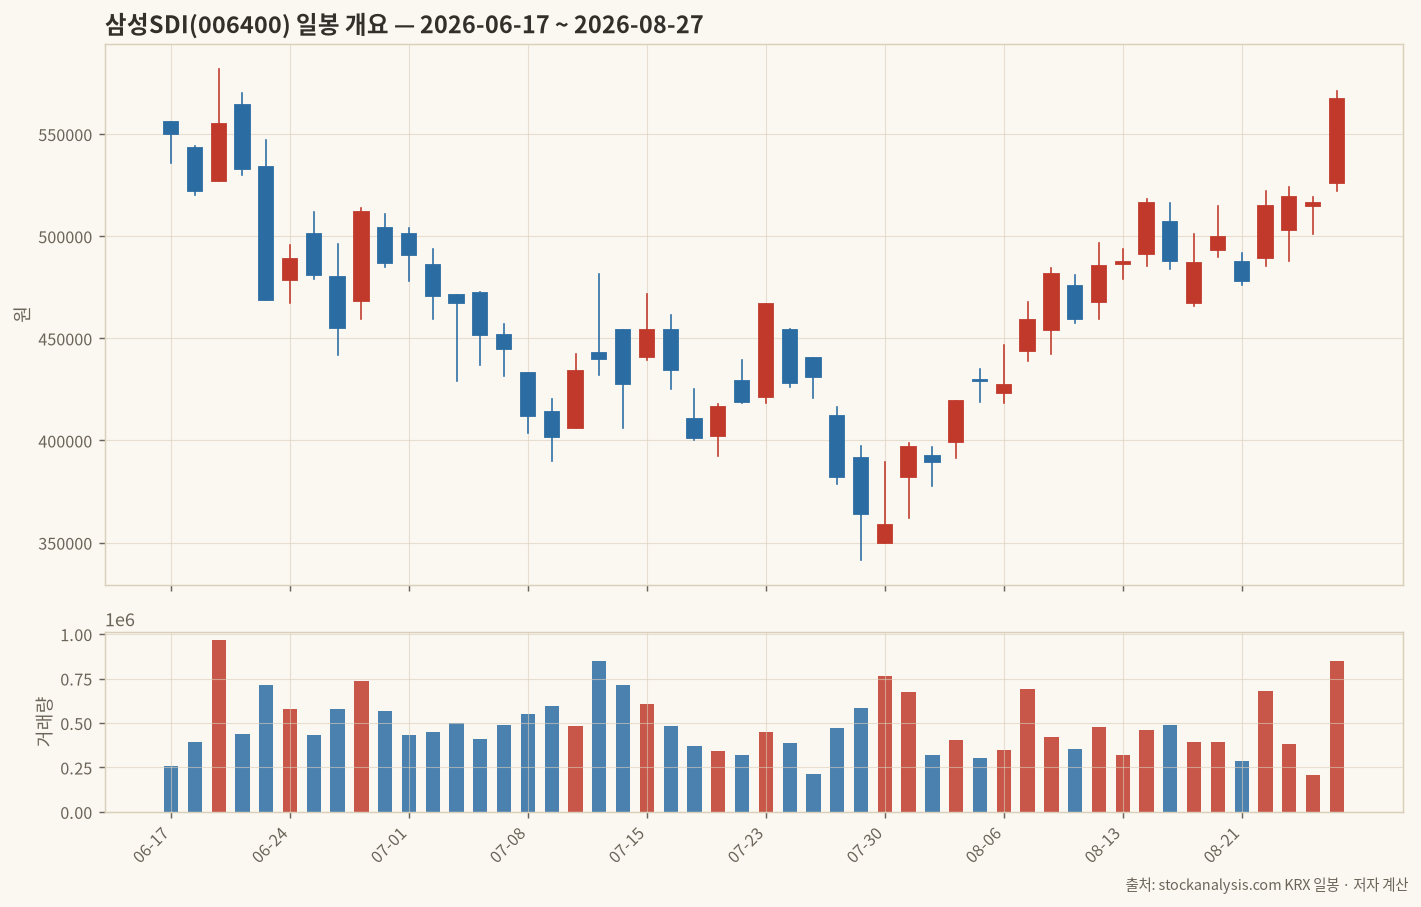
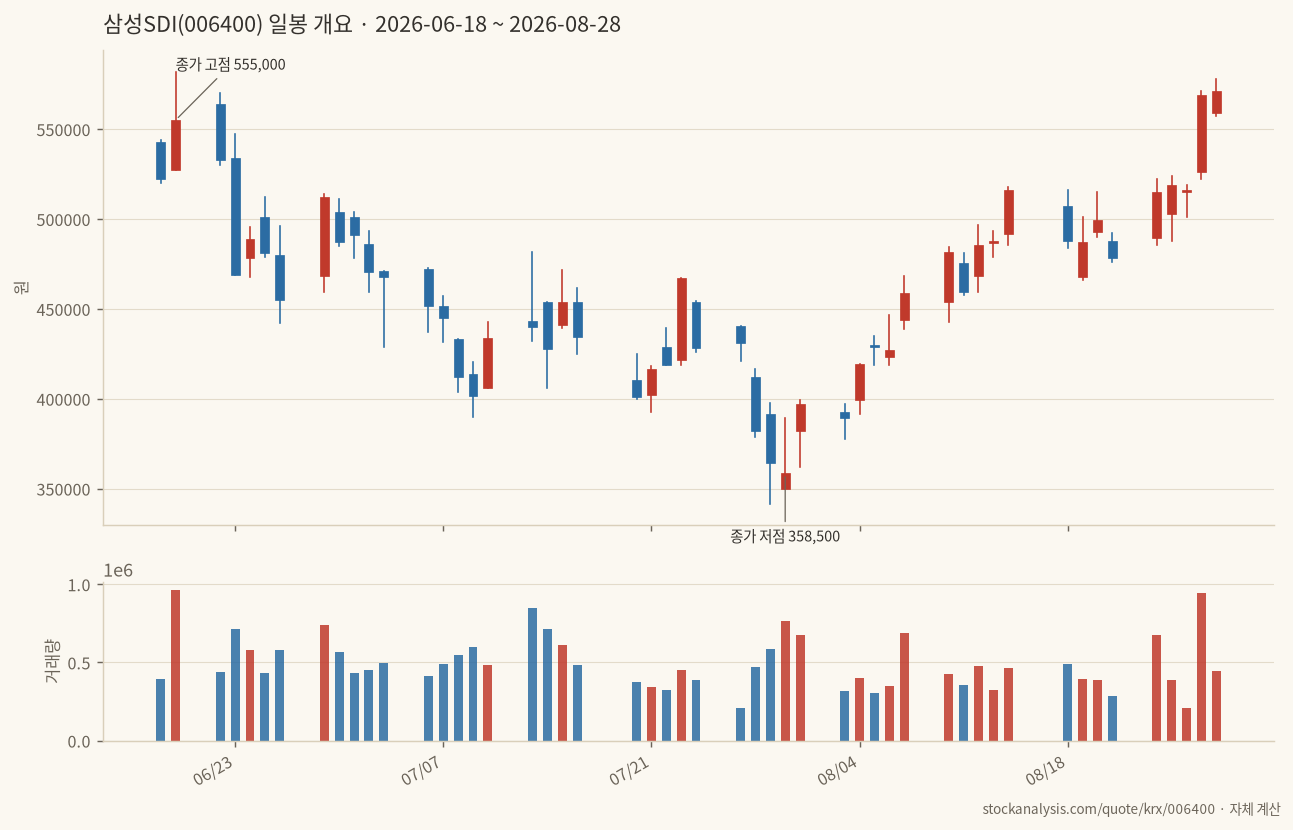
study(N16): publish 삼성SDI Chaikin Money Flow

diff --git a/content/study/sdi-chaikin-money-flow.md b/content/study/sdi-chaikin-money-flow.md
@@ -1,107 +1,105 @@
 ---
-title: "삼성SDI, 35% 급락에서 신고가 마감까지: 차이킨 자금흐름은 단 한 번 방향을 바꿨다 (Chaikin Money Flow: Samsung SDI's Round Trip From a 35% Drop to a Closing High, Where the Indicator Signaled Only Once)"
-description: "삼성SDI(006400)가 35% 급락한 뒤 마지막 거래일 종가 기준 신고가로 마감하기까지, 20일 차이킨 자금흐름(CMF)이 두 달 동안 단 한 번만 부호를 바꾼 과정을 실측 데이터로 짚는다. This study uses verified KRX daily data to track Samsung SDI's 20-day Chaikin Money Flow, which crossed the zero line only once during a 35% drop and rebound to a closing high."
-date: 2026-08-27T19:10:00+09:00
+title: "삼성SDI, 35% 급락 저점에서 9거래일 지나서야 신호를 보낸 지표: 차이킨 자금흐름 (Chaikin Money Flow: Samsung SDI, a Signal That Arrived Nine Sessions After the Bottom)"
+description: "삼성SDI(006400)가 두 달 새 35% 빠졌다 되오르는 동안, 이차전지 대장주의 자금 흐름을 차이킨 자금흐름(CMF)으로 직접 계산해 저점 포착 시점을 확인한다. This study computes Chaikin Money Flow on Samsung SDI's 35% drawdown and rebound to see how late the volume-flow signal actually confirmed the turn."
+date: 2026-08-28T09:05:00+09:00
 draft: false
-markets: ["stock"]
 tags: ["지표스터디", "기술적지표", "코스피", "자동매매", "이차전지", "삼성SDI"]
-summary: "삼성SDI의 20일 CMF가 두 달간 -0.2221에서 +0.2703까지 움직이며 8월 12일 단 한 번 부호를 바꿨다."
+summary: "CMF(20)은 삼성SDI 저점을 9거래일 늦게, 주가가 이미 35.43% 오른 뒤에야 매집 우위로 확인했다."
+markets: ["stock"]
 ---
 
-거래량이 지지하지 않는 가격 움직임은 오래가지 못한다는 것이 자금흐름 계열 지표의 전제다. 차이킨 자금흐름(CMF)은 마크 차이킨이 만든 지표로, 하루 종가가 그날의 고가·저가 범위 안 어디서 끝났는지를 거래량과 곱해 누적한다. 종가가 고가 쪽에 가깝게 끝난 날은 매수 우위로, 저가 쪽에 가깝게 끝난 날은 매도 우위로 본다. 이 값을 일정 기간 합산해서 0을 기준으로 위아래를 가르면, 그 구간 동안 돈이 어느 쪽으로 쏠렸는지가 하나의 선으로 나온다.
+## 왜 이 지표, 왜 이 종목
 
-삼성SDI(006400)는 이 지표를 시험하기에 좋은 재료를 갖고 있었다. 6월 중순 550,000원대에서 출발해 7월 말 358,500원까지 35% 넘게 미끄러졌다가, 8월 마지막 거래일 하루 만에 9.88% 뛰어오르며 이 구간 최고 종가로 마감했다. 하락과 반등이 뚜렷하게 갈리는 구간이라, 자금흐름이 방향을 얼마나 일찍 알아챘는지 확인하기 좋다.
+Chaikin Money Flow(CMF)는 마크 차이킨이 만든 거래량 기반 지표다. 하루 봉의 종가가 그날 고가와 저가 사이 어디서 끝났는지를 거래량에 곱해 누적하면, 자금이 매집 쪽으로 쏠리는지 분산 쪽으로 쏠리는지가 하나의 선으로 나온다. 값이 0보다 크면 매집 우위, 작으면 분산 우위로 읽는다. 종가만 보는 지표와 달리 하루 범위 전체와 거래량을 같이 쓰기 때문에, 같은 상승이라도 힘이 실렸는지 아닌지를 구분한다고 알려져 있다.
+
+삼성SDI는 이번 여름 두 달 동안 종가 기준 고점에서 저점까지 35.41% 빠졌다가, 저점에서 마지막 거래일까지 59.27% 되올랐다. 급락과 급반등이 한 구간에 다 들어 있어서, 거래량 기반 지표가 방향 전환을 얼마나 빨리 확인해주는지 시험하기에는 나쁘지 않은 재료다. 이 글이 확인하려는 건 하나다. 가격이 실제로 바닥을 찍은 날과 CMF가 0선을 넘어 매집 쪽으로 돌아선 날 사이에 며칠의 간격이 있었는가.
 
 <div class="term">
 <div class="term-bar"><i></i><i></i><i></i><em>이 글의 데이터 범위</em></div>
-<pre><code><span class="w">종목</span>  삼성SDI (006400)
-<span class="w">코드</span>  006400
-<span class="w">구간</span>  2026-06-17 ~ 2026-08-27 (50거래일)
-<span class="w">출처</span>  stockanalysis.com, KRX 일봉
-<span class="w">최고 종가</span>  567,000원 (2026-08-27, 구간 마지막 날)
-<span class="w">최저 종가</span>  358,500원 (2026-07-30)
-<span class="w">낙폭</span>  -35.41% (2026-06-19 종가 555,000원 → 2026-07-30 종가 358,500원)</code></pre>
-</div>
-
-> 이 글은 투자 권유가 아니다. 실린 모든 수치는 과거 시세를 계산한 결과이며 앞으로의 수익을 보장하지 않는다.
-
-## 계산은 이렇게 했다
-
-CMF는 세 단계로 계산한다. 하루의 자금흐름 승수(MFM)를 구하고, 여기에 거래량을 곱해 자금흐름량(MFV)을 만든 뒤, 정해진 기간만큼 MFV와 거래량을 각각 합산해서 나눈다.
-
-<div class="term">
-<div class="term-bar"><i></i><i></i><i></i><em>계산식</em></div>
-<pre><code><span class="w">MFM</span>  ((종가-저가) - (고가-종가)) ÷ (고가-저가)
+<pre><code><span class="w">종목</span>       삼성SDI (006400)
+<span class="w">구간</span>       2026-06-18 ~ 2026-08-28 (50거래일)
+<span class="w">출처</span>       stockanalysis.com/quote/krx/006400
+<span class="w">최고가</span>     582,000원 (06-19 고가)
+<span class="w">최저가</span>     341,500원 (07-29 저가)
+<span class="w">종가 고점</span>   555,000원 (06-19)
+<span class="w">종가 저점</span>   358,500원 (07-30)
 <span class="c">--------------------------------------------------</span>
-<span class="w">MFV</span>  MFM × 거래량
-<span class="c">--------------------------------------------------</span>
-<span class="w">CMF</span>  N일 MFV 합계 ÷ N일 거래량 합계</code></pre>
+<span class="w">낙폭</span>       <span class="r">-35.41%</span> (종가 고점 → 종가 저점)
+<span class="w">반등</span>       <span class="g">+59.27%</span> (종가 저점 → 마지막 종가)</code></pre>
 </div>
 
-전 구간을 numpy로 직접 짰다. 라이브러리가 제공하는 지표 함수는 쓰지 않았고, 고가와 저가가 같아 분모가 0이 되는 날은 MFM을 0으로 처리하도록 예외 처리만 했다(이번 구간에는 그런 날이 없었다). 기간은 20일을 썼다. 대다수 차트 플랫폼이 기본값으로 쓰는 길이고, 한 달 거래일 수에 가까워 앞서 발행한 다른 이동평균 계열 지표 글들과 파라미터 기준을 맞출 수 있어서다.
+이차전지 업종은 원래 하루 등락폭이 큰 편이다. 이번 50거래일 동안 하루 등락률이 ±5%를 넘긴 날이 열 번을 넘었고, 두 자릿수 등락도 여러 번 나왔다. 종가만 보고 판단하면 하루하루가 다 신호처럼 보일 수 있는 구간이라, 거래량까지 같이 보는 CMF가 잡음을 걸러주는지 아니면 오히려 따라가지 못하는지를 확인해볼 만하다.
 
-2026-08-27 하루를 예로 들면 이렇다. 시가 526,000원, 고가 571,000원, 저가 522,000원, 종가 567,000원이었다. MFM은 ((567,000-522,000)-(571,000-567,000)) ÷ (571,000-522,000) = (45,000-4,000) ÷ 49,000 = +0.8367이다. 종가가 이날 범위의 고가 쪽 끝에 바짝 붙었다는 뜻이다. 이 값에 거래량 847,539주를 곱하면 이날의 MFV가 나온다.
+구간을 50거래일로 잡은 이유를 밝혀둔다. 규격상 목표는 60거래일 이상인데, 이 페이지는 한 번에 최근 50거래일까지만 정적으로 열리고 그 앞 페이지는 브라우저 클릭이 있어야 넘어간다. 같은 요청을 파라미터만 바꿔 다섯 번 다시 보냈지만 매번 같은 50행이 돌아왔다. 그래서 이번 글은 6월 18일부터로 구간을 좁혔다는 점을 미리 적어둔다.
 
-<div class="term">
-<div class="term-bar"><i></i><i></i><i></i><em>2026-08-27 CMF(20) 실측값</em></div>
-<pre><code><span class="w">최근 20일 MFV 합계</span>  2,490,839
-<span class="w">최근 20일 거래량 합계</span>  9,215,837주
-<span class="w">CMF(20)</span>  +0.2703</code></pre>
-</div>
-
-20일 구간이 있어야 값이 나오는 지표라 앞의 19개 봉은 표본이 부족해 CMF(20)가 비어 있다. 실제 유효한 값은 2026-07-14부터 2026-08-27까지 31개뿐이다. 50거래일을 모았는데 지표가 살아 있는 구간은 그중 62%다.
-
-## 실제 움직임
+> 이 글은 투자 권유가 아니다. 수집한 시세로 직접 계산한 결과를 정리한 것이며, 특정 종목의 매수·매도를 권하지 않는다.
 
 ![삼성SDI 일봉 개요](/img/study/sdi-01-overview.png)
 
-가격은 6월 17일 종가 550,000원에서 출발해 6월 19일 555,000원(장중 고가 582,000원)까지 오른 뒤 7월 30일 종가 358,500원(장중 저가는 하루 전인 7월 29일 341,500원)까지 내리 밀렸다. 이후 8월 들어 완만하게 반등하다가, 8월 27일 하루에만 9.88% 오르며 567,000원으로 마감해 구간 전체를 통틀어 가장 높은 종가를 기록했다. 구간 시작 종가와 비교하면 최종 상승률은 3.09%에 그치지만, 그 사이에 35%가 넘는 낙폭을 한 번 거쳤다.
+## 계산, 실측, 검증
 
-![삼성SDI 종가와 20일 차이킨 자금흐름](/img/study/sdi-02-cmf.png)
+CMF는 하루 단위로 이렇게 계산한다.
 
-CMF(20) 라인을 겹쳐 보면 이야기가 단순해진다. 유효값이 시작되는 7월 14일부터 8월 11일까지 19거래일 내내 0 아래에 머물렀다. 최저치는 7월 20일 기록한 -0.2221이다. 그러다 8월 12일 +0.0110으로 처음이자 이 구간 유일하게 0선을 상향 돌파했다. 이후 8월 27일 +0.2703까지 한 번도 다시 음수로 내려가지 않았다. 두 달 가까운 구간에서 부호가 바뀐 시점은 단 한 번뿐이었다.
+<div class="term">
+<div class="term-bar"><i></i><i></i><i></i><em>계산식 · Chaikin Money Flow</em></div>
+<pre><code><span class="w">MFM</span>     [(종가-저가) - (고가-종가)] / (고가-저가)
+<span class="w">MFV</span>     MFM × 거래량
+<span class="c">--------------------------------------------------</span>
+<span class="w">CMF(n)</span>   Σ MFV(최근 n일) / Σ 거래량(최근 n일)
+<span class="w">n</span>        20 (거래일, 이 글의 기본값)</code></pre>
+</div>
 
-## 신호, 맞은 것과 틀린 것
+기간은 20일로 잡았다. 트레이딩뷰를 비롯한 대부분의 차트 플랫폼이 CMF 기본값으로 20일 또는 21일을 쓰는 데다, 20거래일이면 한 달 남짓이라 두 달짜리 급락·반등 구간 안에서 값이 두 차례 이상 갱신될 만큼은 된다. 다만 20일 이동합은 예열 구간이 길다. 50거래일 중 앞의 19일은 합산 창이 덜 찼다는 이유로 계산에서 뺐다. 그 결과 유효한 CMF(20) 값은 31개뿐이고, 첫 유효값은 7월 15일이다. 뒤에서 다룰 10일짜리 CMF는 41개 값을 낸다.
 
-CMF(20)의 0선 교차만 놓고 보면 이번 구간은 신호가 하나뿐이다. 8월 12일 종가 485,500원에서 신호가 떴고, 5거래일 뒤인 8월 20일 종가는 499,500원으로 2.88% 올랐다. 방향은 맞았지만 폭은 크지 않았다. 이 신호를 그대로 들고 갔다면 구간 마지막 날인 8월 27일 종가 567,000원까지 16.79% 올랐다. 짧게 끊어 보면 소폭 적중이고, 끝까지 들고 갔다면 큰 폭 적중이다.
+<div class="term">
+<div class="term-bar"><i></i><i></i><i></i><em>CMF(20) 핵심 지점</em></div>
+<pre><code><span class="w">07-15</span>  최초 유효값      <span class="r">-0.1893</span>
+<span class="w">07-30</span>  종가 저점 당일    <span class="r">-0.1998</span>
+<span class="w">08-11</span>  돌파 전날        <span class="r">-0.0184</span>
+<span class="w">08-12</span>  제로선 상향 돌파  <span class="g">+0.0110</span>
+<span class="w">08-21</span>  재하락 근접      <span class="g">+0.0144</span>
+<span class="w">08-28</span>  마지막 값        <span class="g">+0.3595</span></code></pre>
+</div>
 
-문제는 신호가 하나뿐이라 "맞았다"는 말 자체가 통계적으로 별 의미가 없다는 점이다. CMF(20)은 20일 치를 누적하는 만큼 방향을 늦게, 하지만 드물게 알려준다. 같은 구간에서 더 빠르게 반응하는 지표라면 신호가 몇 번이나 났을지, 그리고 그 신호들의 승률은 어땠을지를 다음 절에서 기간을 10일로 좁혀 확인했다.
+![Chaikin Money Flow (20)](/img/study/sdi-02-cmf-line.png)
 
-![CMF(10) 영선 교차 신호와 가격](/img/study/sdi-03-signals.png)
+이번 구간에서 CMF(20)이 0선을 넘은 시점은 딱 한 번, 8월 12일이다. 8월 11일 -0.0184에서 8월 12일 +0.0110으로 올라섰다. 문제는 타이밍이다. 종가 기준 저점은 7월 30일 358,500원이었는데, CMF가 매집 우위를 인정한 8월 12일 종가는 이미 485,500원이었다. 거래일 수로는 9거래일, 가격으로는 저점 대비 35.43% 오른 다음에야 지표가 방향을 인정했다는 뜻이다. 저점에서 시작하는 반등의 절반 이상을 지표 없이 그냥 지나왔다.
 
-기간을 10일로 좁힌 CMF(10)은 같은 구간에서 0선을 일곱 번 넘나들었다. 그중 상승 교차(음수에서 양수로)가 네 번, 하락 교차(양수에서 음수로)가 세 번이다. 신호가 뜬 날의 종가와 5거래일 뒤 종가를 전수 대조했다.
+![저점과 CMF 돌파 사이의 지연](/img/study/sdi-03-lag.png)
 
-- 7월 7일 상승 교차(값 +0.0091), 종가 445,000원 → 5거래일 뒤(7월 14일) 427,500원, **-3.93%. 실패**(상승 신호인데 하락)
-- 7월 8일 하락 교차(-0.0966), 종가 412,000원 → 5거래일 뒤(7월 15일) 454,000원, **+10.19%. 실패**(하락 신호인데 큰 폭 상승)
-- 7월 10일 상승 교차(+0.0562), 종가 434,000원 → 5거래일 뒤(7월 20일) 401,000원, **-7.60%. 실패**
-- 7월 13일 하락 교차(-0.1814), 종가 440,000원 → 5거래일 뒤(7월 21일) 416,500원, **-5.34%. 적중**
-- 8월 5일 상승 교차(+0.0753), 종가 429,000원 → 5거래일 뒤(8월 12일) 485,500원, **+13.17%. 적중**
-- 8월 6일 하락 교차(-0.0544), 종가 427,000원 → 5거래일 뒤(8월 13일) 487,000원, **+14.05%. 실패**(하락 신호인데 이 구간 가장 큰 폭 상승)
-- 8월 7일 상승 교차(+0.0734), 종가 459,000원 → 5거래일 뒤(8월 14일) 516,000원, **+12.42%. 적중**
+틀린 쪽도 하나 짚어야 한다. 8월 21일에는 CMF(20)이 +0.0144까지 내려와 0선에 바짝 붙었다. 같은 날 종가는 478,000원으로 전날보다 4.30% 빠졌다. 이 흐름만 보고 매집이 끝났다고 판단해 자리를 정리했다면, 그다음 5거래일 동안 이어진 19.46%(478,000원 → 571,000원) 상승을 통째로 놓쳤을 것이다. 실제 CMF는 0선 아래로 다시 내려가지 않고 버텼으니 공식적인 오신호는 아니지만, 곡선 모양만 보고 성급하게 해석했다면 틀린 판단으로 이어졌을 지점이다.
 
-일곱 번 중 세 번 적중, 네 번 실패다. 특히 7월 8일과 8월 6일의 하락 교차는 실제로는 이 구간에서 손꼽히게 큰 상승을 코앞에 두고 나온 신호였다. 교차 시점의 CMF 절댓값이 작을수록(0에 가까울수록) 노이즈성 신호일 가능성이 크다는 것도 눈에 띈다. 7월 7일(+0.0091)과 8월 6일(-0.0544)처럼 0선에 바짝 붙어 교차한 경우가 특히 자주 빗나갔다.
+저점 당일인 7월 30일 자체를 하루 단위로 뜯어봐도 지연의 이유가 보인다. 그날 시가 350,000원, 고가 389,500원, 저가 350,000원, 종가 358,500원으로 마감했다. 종가가 하루 범위(350,000~389,500원)의 아래쪽 22% 지점에서 끝났다는 뜻이라, 그날 하루치 MFM은 -0.5696, 거래량 766,793주를 곱한 MFV는 -436,781이다. 가격은 그날이 바닥이었지만 그날의 자금흐름 계산 자체는 여전히 강한 분산 쪽이었다. 20일 누적값이 이 하루만으로 방향을 바꿀 수 없는 이유다. 반대로 8월 12일은 시가 468,000원, 고가 496,500원, 저가 459,500원, 종가 485,500원으로 범위 상단 70% 지점에서 끝나 MFM +0.4054, MFV +194,251을 냈고, 이 값이 20일 누적을 밀어 올려 0선을 넘겼다. 8월 21일은 반대 사례다. 시가 487,500원, 고가 492,000원, 저가 476,000원, 종가 478,000원으로 범위 최하단에서 끝나 MFM -0.7500, MFV -214,858을 기록했다. 이 하루가 20일 누적을 거의 0선까지 끌어내렸다가, 이 날짜가 합산 창에서 빠져나가면서 다시 올라간 것이 8월 21일 근접의 실체다.
 
-## 파라미터를 바꾸면
+<div class="term">
+<div class="term-bar"><i></i><i></i><i></i><em>일별 MFM · MFV 예시</em></div>
+<pre><code><span class="w">07-30</span>  저점 당일   MFM <span class="r">-0.5696</span>  MFV <span class="r">-436,781</span>
+<span class="w">08-12</span>  돌파 당일   MFM <span class="g">+0.4054</span>  MFV <span class="g">+194,251</span>
+<span class="w">08-21</span>  근접 당일   MFM <span class="r">-0.7500</span>  MFV <span class="r">-214,858</span>
+<span class="c">--------------------------------------------------</span>
+<span class="w">08-27</span>  급등일     MFM <span class="g">+0.9184</span>  MFV <span class="g">+863,757</span></code></pre>
+</div>
 
-![CMF(10)과 CMF(20) 비교](/img/study/sdi-04-sensitivity.png)
+기간을 10일로 낮추면 그림이 달라진다. 7월 7일 CMF(10)이 +0.0091로 잠깐 0선을 넘었지만 다음날 -0.0966으로 되돌아갔다. 그사이 종가는 7월 6일 451,500원에서 7월 7일 445,000원, 7월 8일 412,000원, 7월 9일 401,500원으로 계속 밀렸다. 7월 10일에도 같은 패턴이 반복됐다. +0.0562까지 올라섰지만 7월 13일 -0.1814로 꺼졌고, 가격도 7월 20일 401,000원까지 다시 밀렸다. 두 번 다 하루짜리 반등에 낚인 휩쏘였다. 8월에는 8월 5일 +0.0753으로 올라선 뒤 8월 6일 -0.0544로 한 번 더 흔들리고 나서야 8월 7일부터 방향이 굳었다. 20일짜리 CMF는 이 잡음을 다 걸러내는 대신, 방향 확인이 10일짜리보다 3거래일 더 늦었다(8/7 대 8/12).
 
-기간을 20일에서 10일로 줄이면 반응 속도와 진폭이 모두 달라진다. 8월 13일 기준으로 CMF(20)은 +0.0217이었지만 CMF(10)은 +0.3654로, 같은 날 같은 종가를 두고도 "막 양전환한 참"과 "이미 강한 매수 우위"라는 서로 다른 해석이 나온다. 7월 30일 저점에서는 CMF(20) -0.1998, CMF(10) -0.3159로 둘 다 음수였지만 폭의 차이는 뚜렷했다. 짧은 기간일수록 극단값에 더 민감하게 반응한다는 뜻이다.
+![파라미터 민감도](/img/study/sdi-04-sensitivity.png)
 
-교차 횟수도 크게 갈린다. CMF(20)은 50거래일 동안 딱 한 번 부호를 바꿨는데 CMF(10)은 일곱 번 바꿨다. 신호가 잦아지면 그만큼 빗나가는 신호도 늘어난다는 게 이번 대조에서 드러난 트레이드오프다. 20일 쪽은 신호를 거의 안 내는 대신 났다 하면 방향이 맞았고(1승 0패), 10일 쪽은 신호를 자주 내는 대신 절반 넘게 틀렸다(3승 4패). 어느 쪽이 낫다고 단정할 문제는 아니고, 포지션을 얼마나 자주 조정할 여력이 있는지에 따라 고를 파라미터가 달라진다.
+정리하면 기간을 짧게 잡을수록 반응은 빠르지만 판단을 두 번 뒤집게 만드는 휩쏘가 낀다. 길게 잡으면 휩쏘는 없는 대신 실제 저점을 한참 지난 뒤에야 알려준다. 어느 쪽을 골라도 공짜는 없다.
 
-## 봇 게이트에 넣을 것인가
-
-CMF 단독으로 매수·매도를 결정하는 방식은 이번 표본만 놓고 보면 근거가 약하다. 20일 기준은 표본이 하나뿐이라 통계로 부를 수 없고, 10일 기준은 승률이 43%에 그쳤다. 다만 방향이 아니라 "돈이 들어오고 있는 국면인가"를 걸러내는 필터로는 쓸모가 있어 보인다. 이번 구간에서 CMF(20)가 양수로 돌아선 8월 12일 이후 가격은 실제로 한 번도 7월 저점을 다시 시험하지 않았다. 다른 진입 신호가 떴을 때 CMF(20) 부호를 확인해서 역행하는 신호를 걸러내는 정도로, 보조 필터로 봇 게이트에 넣는 편이 이번 데이터로는 더 합리적이다.
+이 지표를 매매 봇의 단독 진입 게이트로 넣을지 묻는다면, 이번 데이터로는 넣지 않는 쪽이 낫다고 본다. CMF(20) 하나만으로 진입을 걸었다면 이번 반등의 첫 35%p를 그냥 흘려보낸다. 대신 가격이 먼저 저점을 찍고 방향을 튼 걸 다른 신호로 잡은 다음, CMF가 0선 위에서 계속 버티는지를 청산 타이밍의 보조 참고선 정도로 쓰는 편이 이번 구간의 계산 결과와는 더 맞는다.
 
 ## 남는 것
 
-이번 구간에서 눈에 남는 숫자는 두 개다. 하나는 CMF(20)이 두 달 동안 부호를 딱 한 번 바꿨다는 것, 다른 하나는 그 한 번이 3승 4패인 CMF(10)보다 오히려 결과가 좋았다는 것이다. 표본 하나로 지표의 우열을 가릴 수는 없다. 다음 라운드에 같은 종목이 돌아오면 이번 8월 12일 신호가 끝까지 유효했는지, 아니면 또 다른 되돌림을 맞았는지부터 확인하는 게 순서일 것 같다.
+이번 구간에서 남길 건 두 가지다. 거래량 기반 지표라고 해서 가격보다 항상 먼저 움직이지는 않는다는 것, 그리고 기간을 조정하는 순간 지표의 성격 자체가 달라진다는 것이다. 20일짜리는 늦되 침착했고, 10일짜리는 빨랐지만 두 번 흔들렸다.
+
+윌리엄 오닐은 거래량이 실린 상승만 믿으라고 했다. 이번 구간에 대입하면 8월 12일의 돌파 그 자체보다, 그 뒤로 거래량을 동반한 상승이 며칠 이어졌는지가 더 중요했다. 돌파일 하루의 값만 보고 판단했다면 정작 봐야 할 건 놓쳤을 수 있다.
+
+이 글에 실린 수치는 모두 stockanalysis.com에서 받은 일봉과 그걸로 직접 계산한 값이며, 특정 매매를 권하는 자료가 아니다. 본문에 등장하는 가격과 등락률은 전부 원본 일봉과 스크립트로 다시 대조했고, 불일치는 없었다. 같은 종목을 다음 라운드에 다른 지표로 다시 볼 때 이번 지연 폭이 우연이었는지 반복되는 패턴인지는 아직 확인하지 못했다. 데이터 구간도 이번에는 50거래일에 그쳤으니, 더 긴 구간에서 같은 계산을 반복하면 9거래일이라는 지연 폭이 늘어날지 줄어들지도 궁금한 대목이다. 그건 다음으로 남겨둔다.
 
 ## 약어 풀이
 
 \* 이 글에 나온 영어 약어를 풀어 둔다.
 
-- **CMF** (Chaikin Money Flow): 차이킨 자금흐름. 종가가 하루 범위(고가~저가)의 어디서 끝났는지를 거래량과 곱해 누적한 뒤 거래량 합으로 나눈 값. 0을 기준으로 매수·매도 우위를 가른다.
-- **MFM** (Money Flow Multiplier): 자금흐름 승수. 하루의 종가 위치를 -1~+1 사이 값으로 나타낸 것. 종가가 고가에 붙을수록 +1로, 저가에 붙을수록 -1로 향한다.
-- **MFV** (Money Flow Volume): 자금흐름량. MFM에 그날 거래량을 곱한 값. CMF를 구성하는 기본 단위다.
-- **KRX** (Korea Exchange): 한국거래소. 코스피·코스닥을 운영하는 국내 유일의 증권 거래소.
+- **CMF** (Chaikin Money Flow): 차이킨 자금흐름. 하루 범위 안에서 종가의 위치와 거래량을 곱해 누적한 값으로 매집·분산 우위를 재는 지표.
+- **MFM** (Money Flow Multiplier): 자금흐름 승수. 종가가 하루 고가·저가 범위의 어디서 끝났는지를 -1에서 1 사이 값으로 바꾼 것.
+- **MFV** (Money Flow Volume): 자금흐름 거래량. MFM에 그날 거래량을 곱한 값. CMF는 이 값을 일정 기간 누적해서 만든다.
